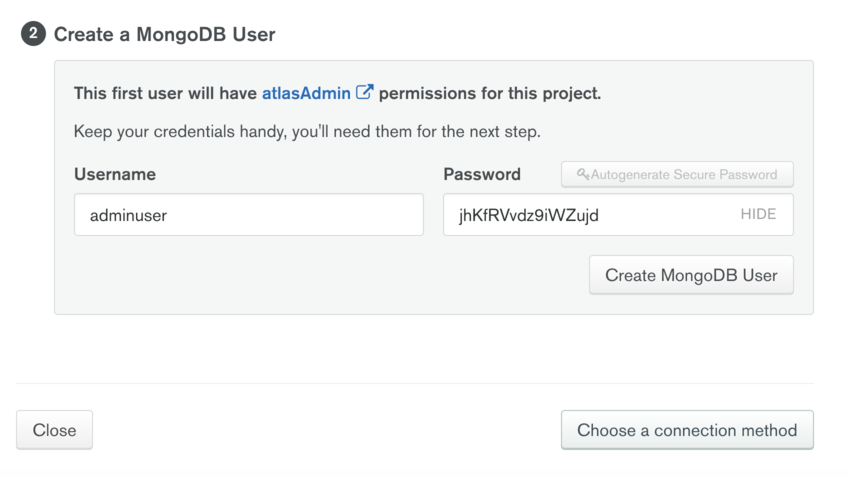
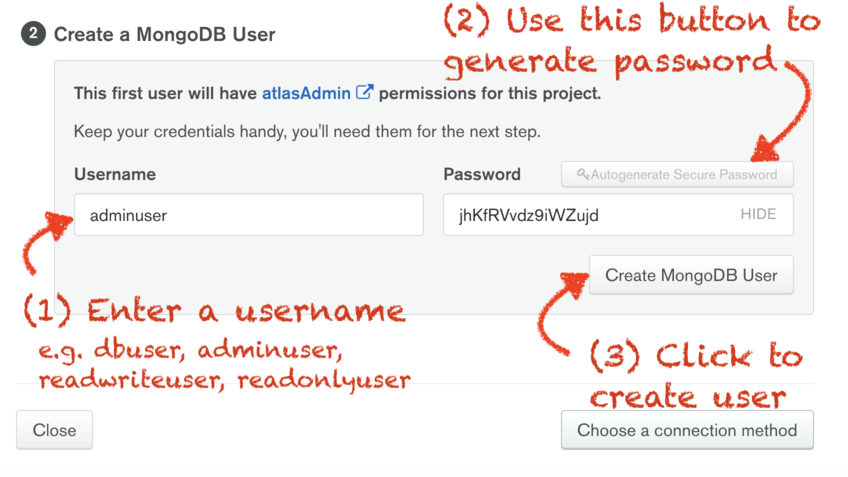
pc - clarify creating user

diff --git a/_topics/mongodb_cloud_atlas_setup.md b/_topics/mongodb_cloud_atlas_setup.md
@@ -122,9 +122,37 @@ The instructions in this article cover how to set up a new free account, up to t
 
 # Step 8: Create a MongoDB User
 
+  In this step, you will create a MongoDB user.
+  * Note that this is *not* the same as your user account for mongodb.com
+  * In particular, it is usually NOT tied to an individual, e.g. `cgaucho`
+  * Instead, this is typically a "username" such as `dbuser`
+    - It is sometimes the case that we create multiple usernames with different access levels, e.g.
+      `dbadmin`, `dbreadwrite` and/or `dbread`.
+  * This user gets created along with a password; that username/password comnb
+  * This username/password pair will get hardcoded in the configuration files (e.g. `.env` for a node app, or a `.properties` file for a Spring app), typically embedded in a MongoDB URI such as this one
+    (which contains fake credentials):
+
+    ```
+    mongodb+srv://adminuser:2w9zmu3pwN6QlPSX@cluster0-3b7ap.mongodb.net/test?retryWrites=true&w=majority
+    ```
+
   ![11-create-a-mongodb-user.png](11-create-a-mongodb-user-50.png)
 
+  Enter a name for the user you are creating.  If it is a user that has
+  admin privileges, it can be helpful to document this by called it `adminuser`, but the
+  name is really arbitrary.
+
+  To generate the password, it is strongly recommended to use the "Autogenerate Secure Password" button.
+  Note that you *cannot* access this password later.  However, you can change it without having to
+  regenerate the user.  Since we are not ready to put that password anywhere yet, I suggest
+  generating a random password, and coming back later to change it when you are ready to copy/paste it
+  into your configuration file (at a later step.)
+
+  Click "Create MongoDB User" to proceed.
+
   ![12-ready-to-connect.png](12-ready-to-connect-50.png)
+
+  
 
 # Step 9: Obtain the URI string for connection 
 
